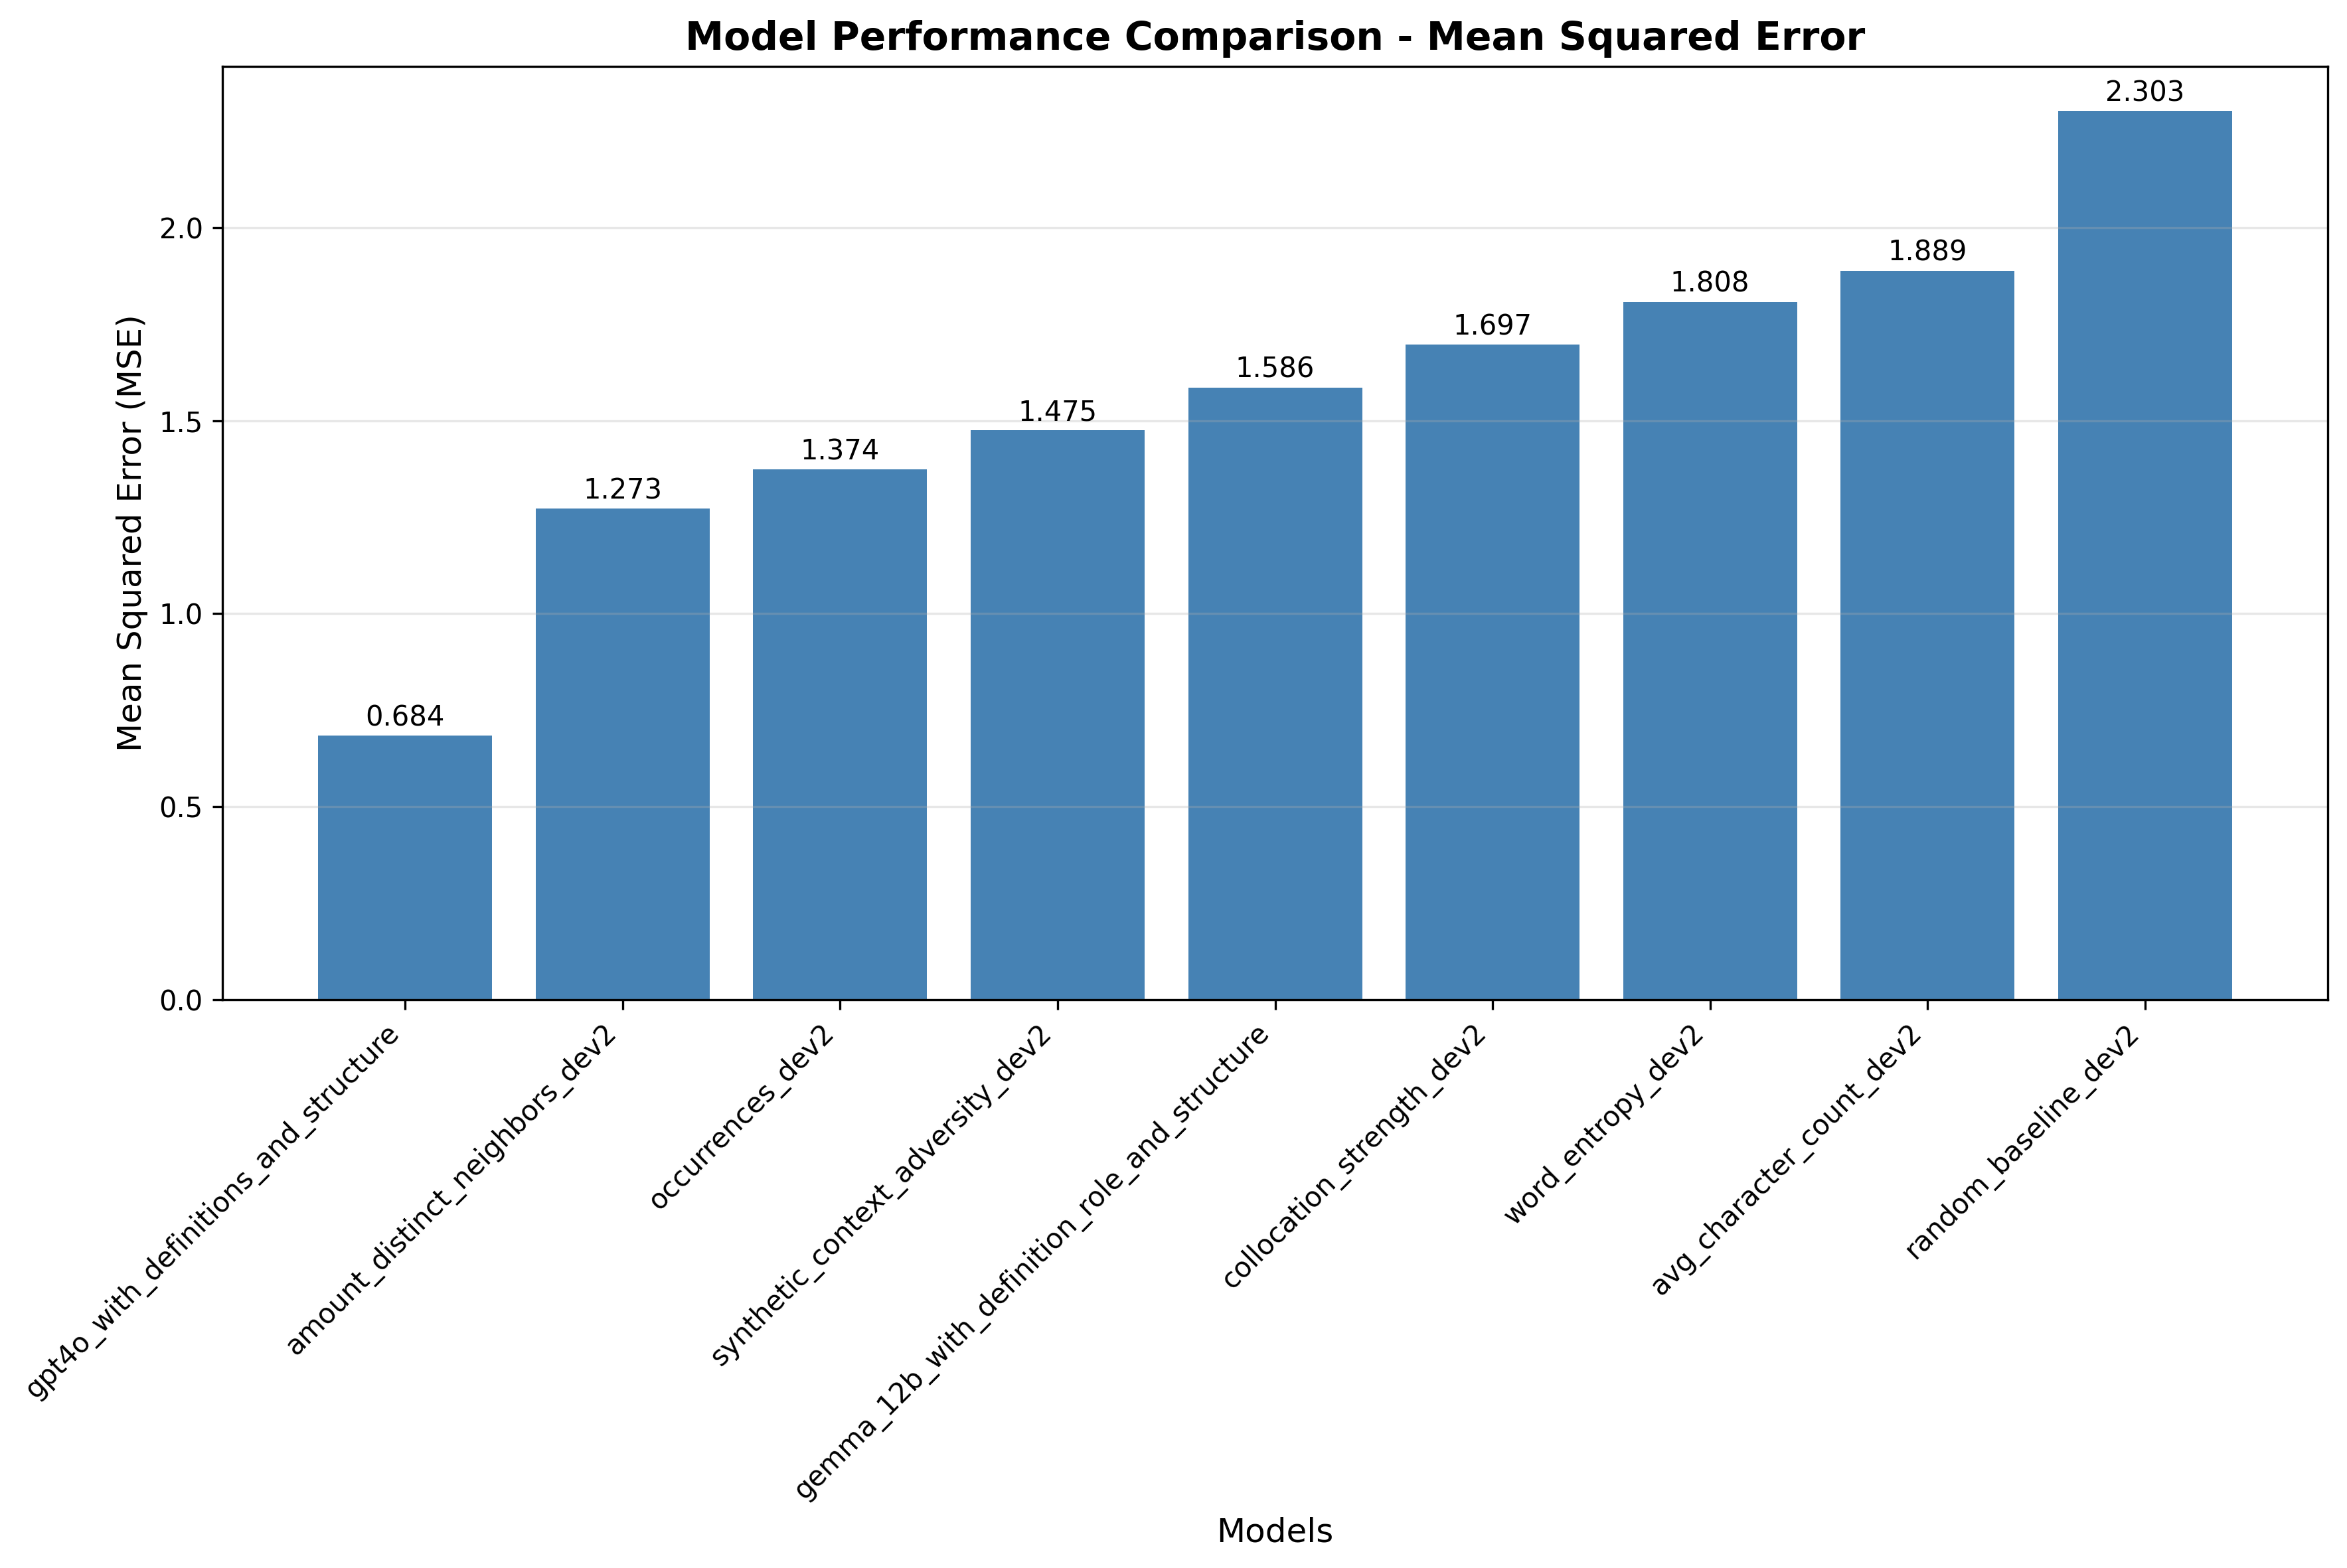
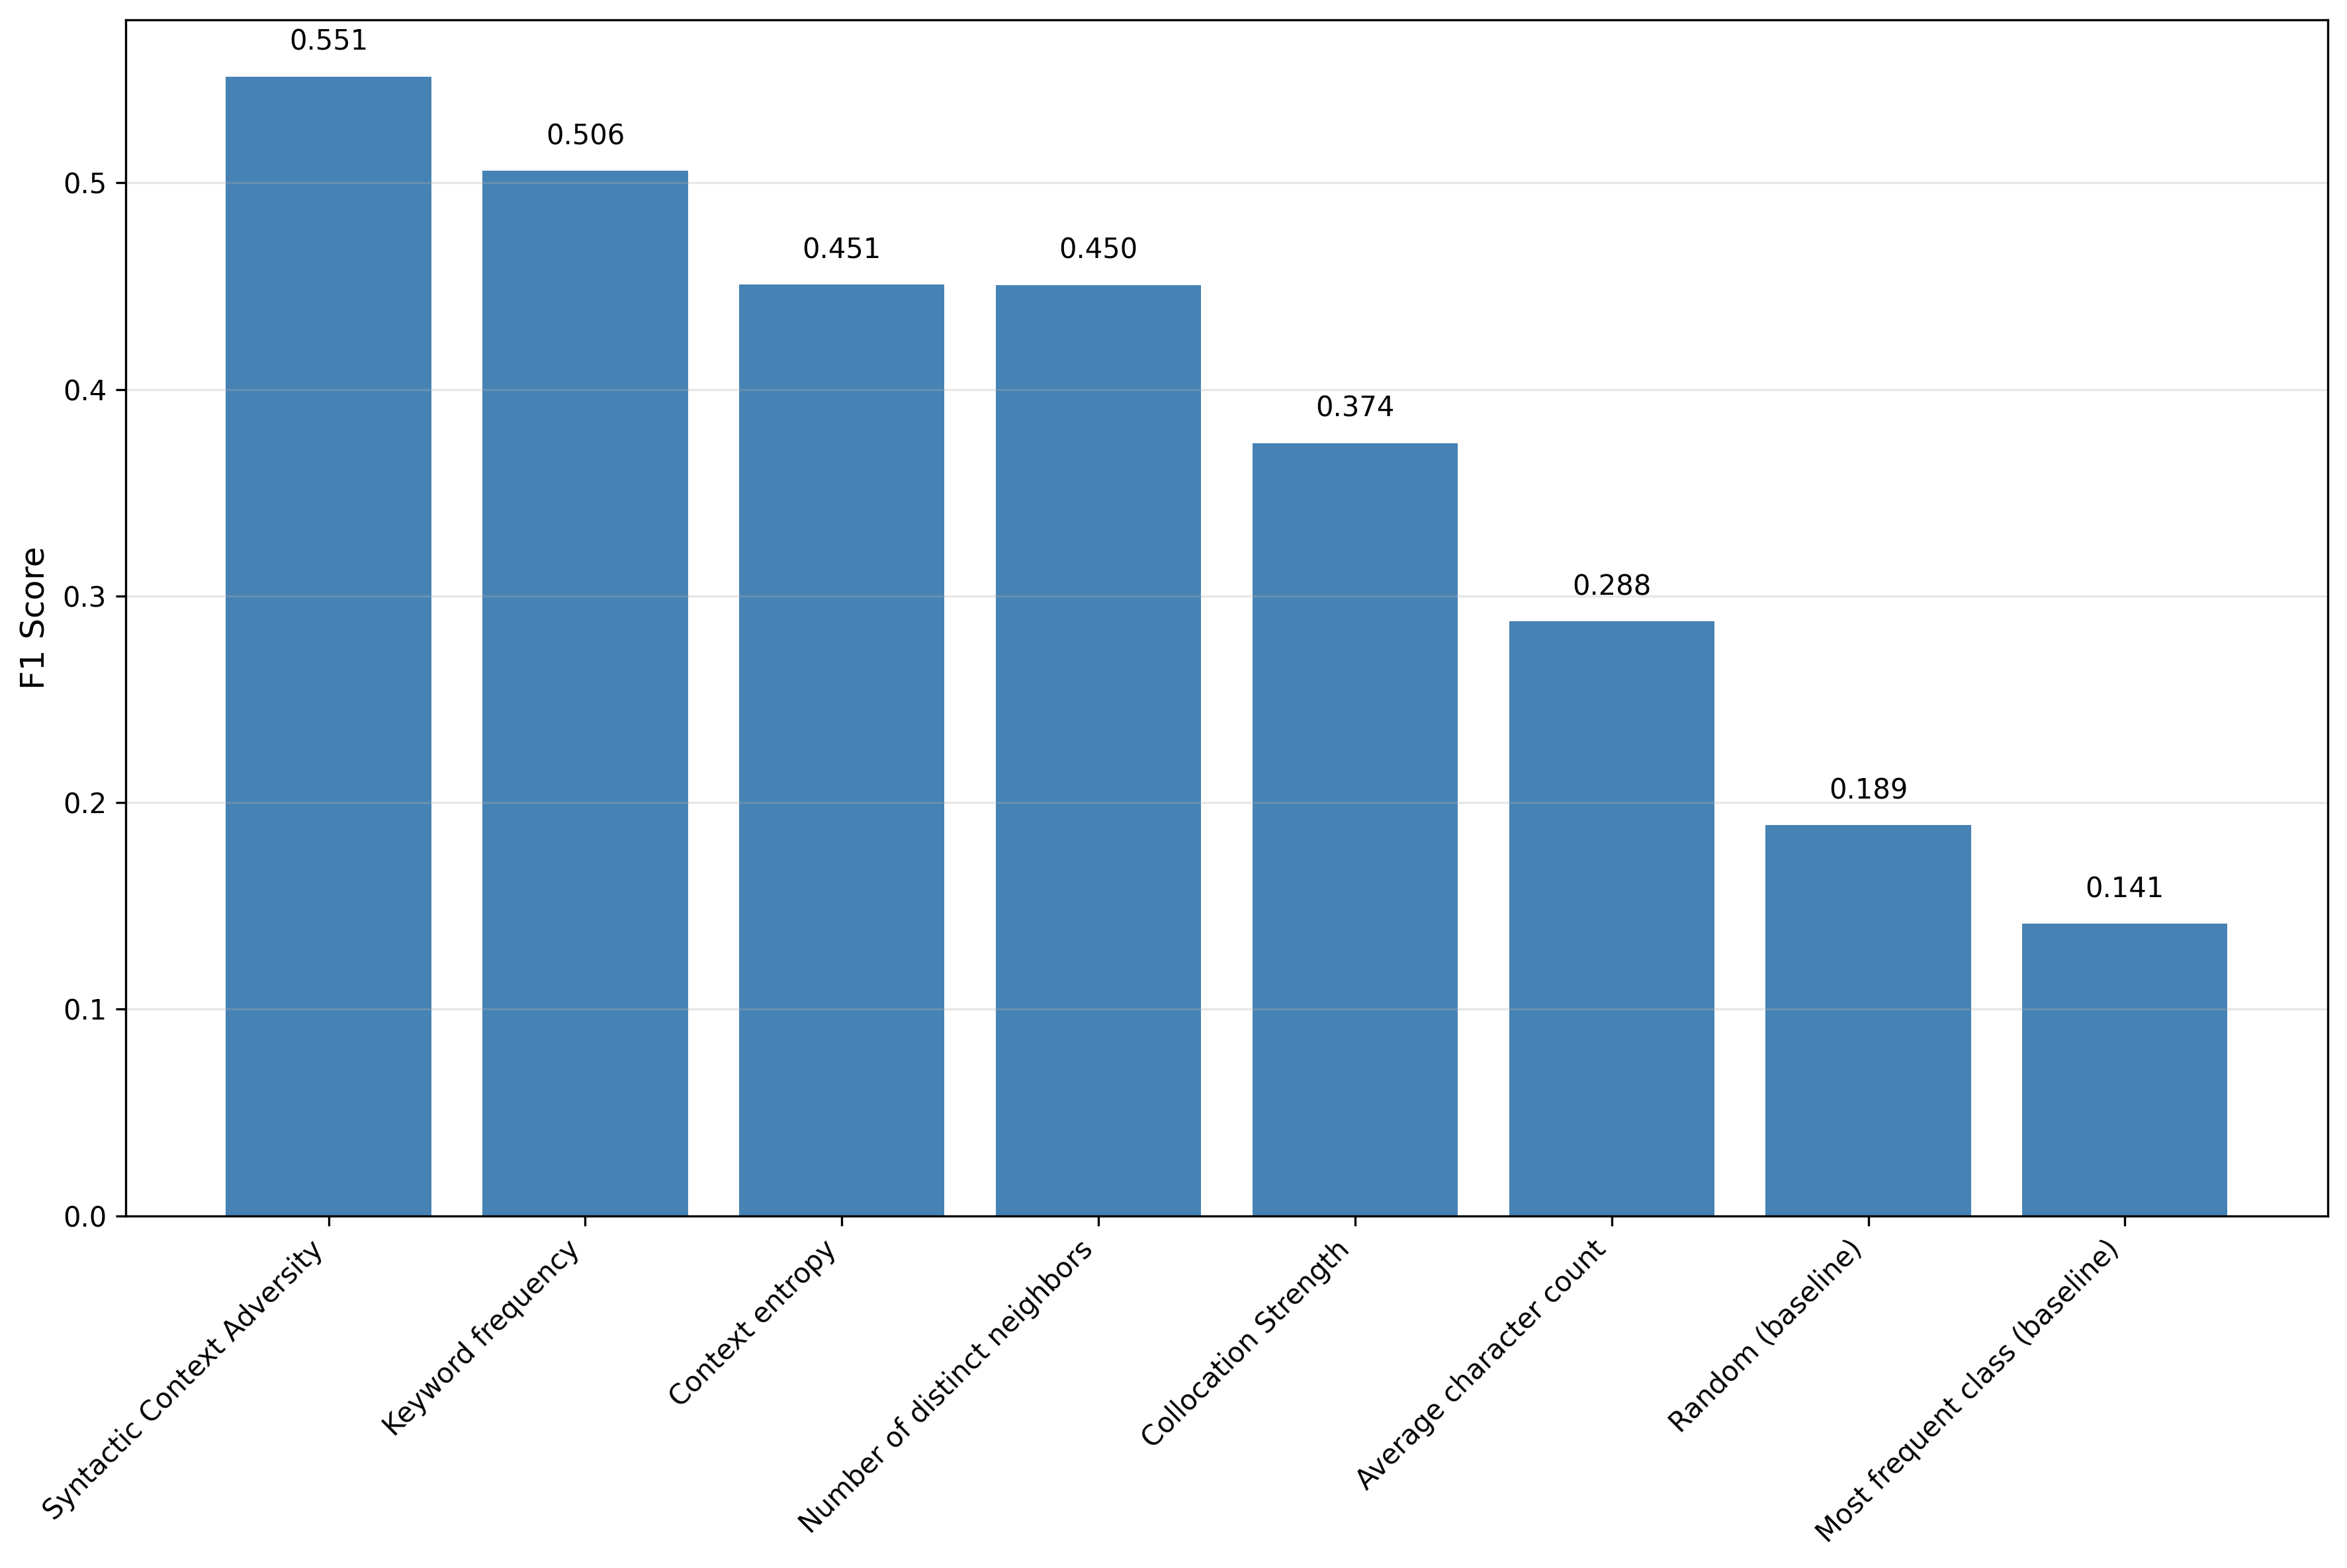
renmed files for plotting

diff --git a/evaluation/plots.py b/evaluation/plots.py
@@ -1,0 +1,22 @@
+import pandas as pd
+import matplotlib.pyplot as plt
+
+# Load the dataset
+file_path = "/Users/luca/Desktop/UTN/LLMs-for-Classification-of-Grammaticalization-Degrees/data/general data (some additional stuff)/keyword_groundtruth.csv"
+data = pd.read_csv(file_path)
+
+# Count the occurrences of each gramm_score
+gramm_score_counts = data['gramm_score'].value_counts().sort_index()
+
+# Plot the distribution
+plt.figure(figsize=(6, 3))
+gramm_score_counts.plot(kind='bar', color='skyblue', edgecolor='black')
+plt.xlabel('Grammaticalization Score', fontsize=12)
+plt.ylabel('Number of Keywords', fontsize=12)
+plt.xticks(rotation=0)
+plt.grid(axis='y', linestyle='--', alpha=0.7)
+
+# Save and show the plot
+plt.tight_layout()
+plt.savefig("evaluation/output/keyword_distribution.png")
+plt.show()

diff --git a/evaluation/evaluation_pipeline.py b/evaluation/evaluation_pipeline.py
@@ -93,26 +93,24 @@ def evaluate_single_file(file_path):
     return results
 
 def create_evaluation_plot(results_df):
-    """Create a bar plot showing MSE for all models."""
+    """Create a bar plot showing F1 Score for all models."""
     plt.figure(figsize=(12, 8))
     
-    # Sort by MSE for better visualization
-    sorted_df = results_df.sort_values('mse')
+    # Sort by F1 Score for better visualization (descending order since higher is better)
+    sorted_df = results_df.sort_values('f1_score', ascending=False)
     
     # Create bar plot
-    bars = plt.bar(range(len(sorted_df)), sorted_df['mse'], 
+    bars = plt.bar(range(len(sorted_df)), sorted_df['f1_score'], 
                    color=['red' if name == 'random' else 'steelblue' for name in sorted_df['file_name']])
     
     # Customize plot
-    plt.xlabel('Models', fontsize=12)
-    plt.ylabel('Mean Squared Error (MSE)', fontsize=12)
-    plt.title('Model Performance Comparison - Mean Squared Error', fontsize=14, fontweight='bold')
+    plt.ylabel('F1 Score', fontsize=12)
     plt.xticks(range(len(sorted_df)), sorted_df['file_name'], rotation=45, ha='right')
     
     # Add value labels on bars
-    for i, (bar, mse) in enumerate(zip(bars, sorted_df['mse'])):
+    for i, (bar, f1) in enumerate(zip(bars, sorted_df['f1_score'])):
         plt.text(bar.get_x() + bar.get_width()/2., bar.get_height() + 0.01,
-                f'{mse:.3f}', ha='center', va='bottom', fontsize=10)
+                f'{f1:.3f}', ha='center', va='bottom', fontsize=10)
     
     # Add grid for better readability
     plt.grid(axis='y', alpha=0.3)
@@ -120,8 +118,8 @@ def create_evaluation_plot(results_df):
     # Highlight random baseline
     if 'random' in sorted_df['file_name'].values:
         random_idx = sorted_df[sorted_df['file_name'] == 'random'].index[0]
-        plt.axhline(y=sorted_df.loc[random_idx, 'mse'], color='red', linestyle='--', alpha=0.7, 
-                   label=f"Random Baseline (MSE={sorted_df.loc[random_idx, 'mse']:.3f})")
+        plt.axhline(y=sorted_df.loc[random_idx, 'f1_score'], color='red', linestyle='--', alpha=0.7, 
+                   label=f"Random Baseline (F1={sorted_df.loc[random_idx, 'f1_score']:.3f})")
         plt.legend()
     
     plt.tight_layout()